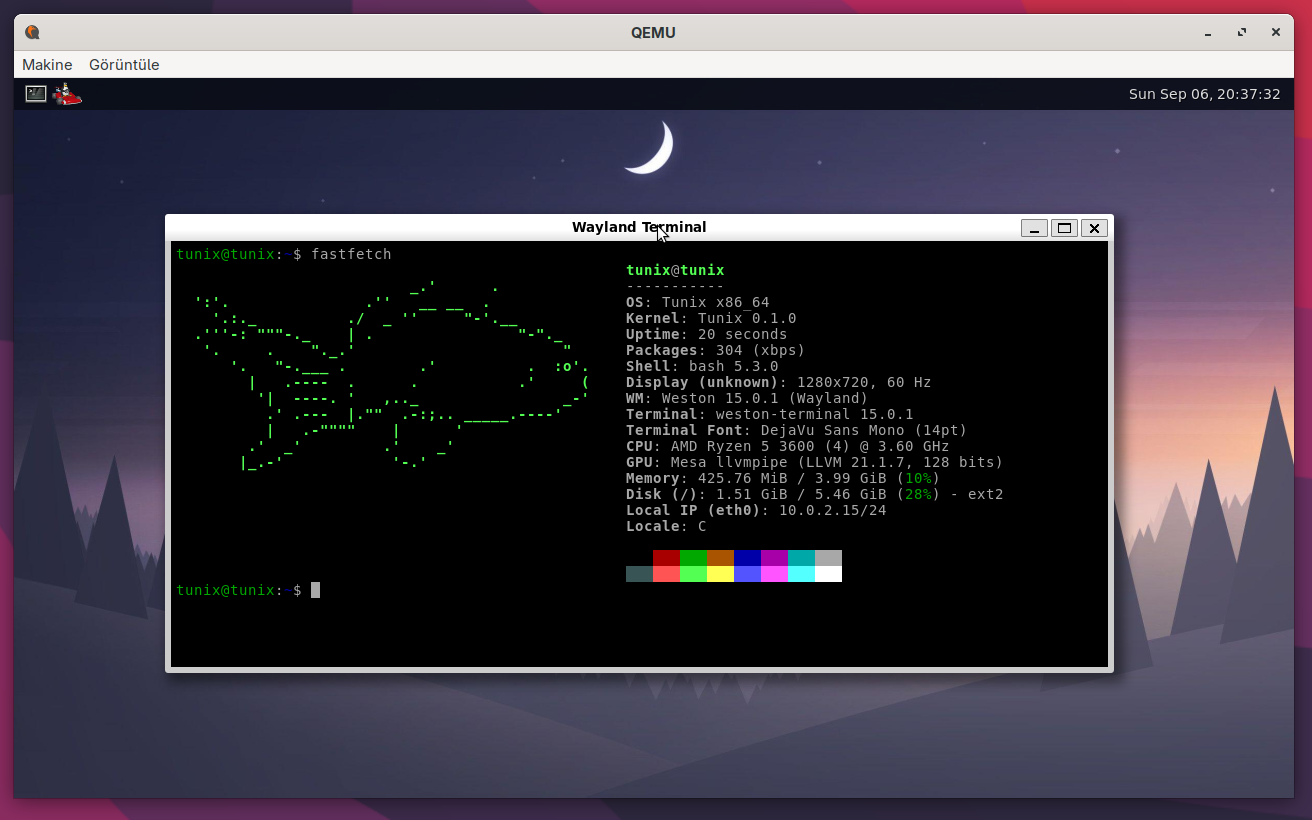
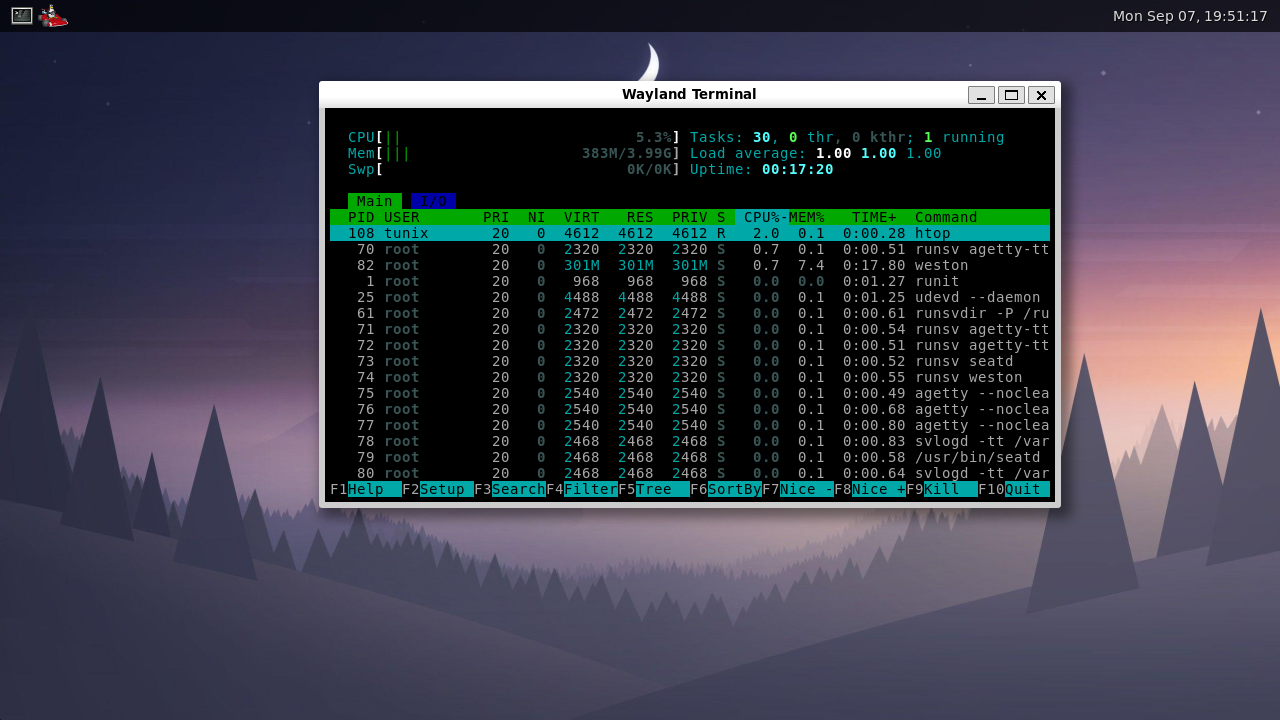
docs: recapture the screenshots without the emulator window

diff --git a/docs/boot.md b/docs/boot.md
@@ -9,6 +9,15 @@ that loader had written -- no ISO, no USB stick somebody else prepared, no
 firmware that only speaks EFI. Limine is a boot protocol rather than a program
 to maintain: the kernel declares what it needs and gets it.
 
+![The Limine menu on Tunix](../screenshots/boot.png)
+
+The menu is `support/limine.conf`. Its wallpaper is the desktop's, copied off
+the sysroot onto the EFI system partition, and its palette is the one the text
+console and the desktop are already in, so nothing changes colour between the
+loader and the session. `interface_resolution` is named as well as the entries'
+`resolution`: they are different modes, and left to itself the menu comes up at
+1024x768 with a 16:9 wallpaper stretched into it.
+
 ## The image
 
 `support/image.sh` builds a GPT disk with two partitions:

diff --git a/docs/desktop.md b/docs/desktop.md
@@ -36,6 +36,11 @@ Two runit services, both in `base-files/overlay/etc/sv`:
   execs `chpst -u tunix:tunix:_seatd weston`. The account is in `_seatd`, which
   is how it reaches a display it has no permission to open itself.
 
+The service also exports `SHELL`. weston-terminal takes the shell from there
+and falls back to `/bin/sh` when it is unset, so without it the session's
+terminal was dash and none of the account's `~/.bashrc` ever ran -- on an image
+whose `/etc/passwd` gives that account bash.
+
 `base-files/overlay/etc/xdg/weston/weston.ini` chooses the DRM backend, the
 cursor theme and the terminal font. Weston's own output goes to
 `/var/log/weston/` rather than to the console it is drawing over.

diff --git a/docs/virtual-terminals.md b/docs/virtual-terminals.md
@@ -5,6 +5,11 @@ them, `chvt` does the same from a program, and each one keeps its own screen,
 its own keyboard queue and its own idea of who is in the foreground. The first
 is the desktop; the second, third and fourth run a login prompt.
 
+![A text console on Tunix](../screenshots/console.png)
+
+The banner is `/etc/issue`, drawn out of half-block characters, and the colours
+are agetty's `\e{...}` escapes landing on the palette in `kernel/tty/terminal.c`.
+
 Before this there was one console. Every question about which terminal was
 active had the same answer, `VT_ACTIVATE` refused anything but terminal 1, and
 the display manager and the compositor had to be told to stop asking --
